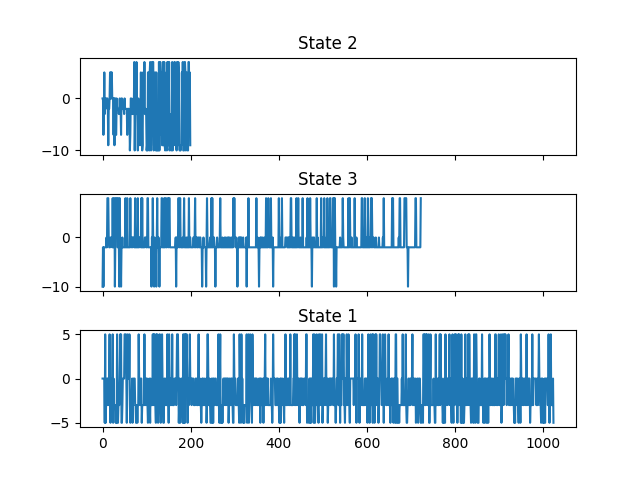
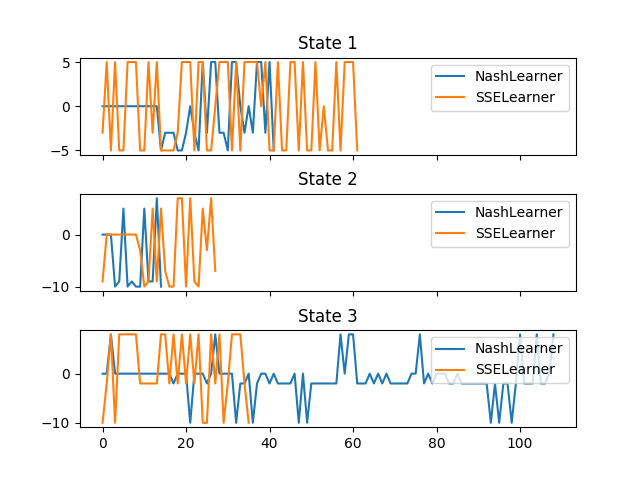
Adding QLearning with SSE (MIQP).

diff --git a/src/agents.py b/src/agents.py
@@ -1,11 +1,15 @@
 import nashpy as nash
+import importlib
 import pprint
+import abc
 
 pp = pprint.PrettyPrinter(indent=2)
 
 
 class QLearner:
     def __init__(self, game_to_play, discount_factor, alpha):
+        __metaclass__ = abc.ABCMeta
+
         self.GAME = game_to_play
         self.DISCOUNT_FACTOR = discount_factor
         self.ALPHA = alpha
@@ -56,10 +60,6 @@ class QLearner:
             r_A + self.DISCOUNT_FACTOR * self.V_A[s_next]
         )
 
-    def print_Q(self):
-        pp.pprint(self.Q_A)
-        pp.pprint(self.Q_D)
-
     # Initialize with a uniform random policy over all actions in the state
     def initial_policy(self):
         for s in self.S:
@@ -76,13 +76,23 @@ class QLearner:
         assert s in self.S
         return self.policy_D[s], self.policy_A[s]
 
-    def get_values(self):
+    @abc.abstractmethod
+    def update_value_and_policy(self):
         raise NotImplementedError
+
+    def print_Q(self):
+        pp.pprint(self.Q_D)
+        pp.pprint(self.Q_A)
+
+    def print_policy(self):
+        pp.pprint(self.policy_D)
+        pp.pprint(self.policy_A)
 
 
 class NashLearner(QLearner):
     def __init__(self, *args, **kwargs):
         super(NashLearner, self).__init__(*args, **kwargs)
+        self.name = 'NashLearner'
 
     def get_name(self):
         return self.name
@@ -129,3 +139,97 @@ class NashLearner(QLearner):
         game_value = g[D_s, A_s]
 
         return game_value[0], game_value[1], D_s, A_s
+
+
+class StackelbergLearner(QLearner):
+    def __init__(self, *args, **kwargs):
+        super(StackelbergLearner, self).__init__(*args, **kwargs)
+        self.name = 'SSELearner'
+        self.lib = importlib.import_module('gurobi')
+
+    def get_name(self):
+        return self.name
+
+    # Given the Q-values, update (1) the value of state s and (2) the policy of the agents
+    def update_value_and_policy(self, s):
+        num_d = len(self.A_D[s])
+        num_a = len(self.A_A[s])
+
+        m = self.lib.Model('MIQP')
+        m.setParam('OutputFlag', 0)
+        m.setParam('LogFile', '')
+        m.setParam('LogToConsole', 0)
+
+        # Add defender stategies to the model
+        x = []
+        for i in range(num_d):
+            n = 'x_{}'.format(self.A_D[s][i])
+            x.append(m.addVar(lb=0, ub=1, vtype=self.lib.GRB.CONTINUOUS, name=n))
+        m.update()
+
+        # Add defender stategy constraints
+        con = self.lib.LinExpr()
+        for i in range(num_d):
+            con.add(x[i])
+        m.addConstr(con == 1)
+
+        obj = self.lib.QuadExpr()
+        M = 100000000
+
+        q = []
+        for i in range(num_a):
+            n = 'q_{}'.format(self.A_A[s][i])
+            q.append(m.addVar(lb=0, ub=1, vtype=self.lib.GRB.INTEGER, name=n))
+
+        V_a = m.addVar(lb=-self.lib.GRB.INFINITY, ub=self.lib.GRB.INFINITY, vtype=self.lib.GRB.CONTINUOUS, name="V_a")
+        m.update()
+
+        # Get Defender/Leader's Q-value matrix
+        M_D = []
+        M_A = []
+        for d in range(num_d):
+            row_D = []
+            row_A = []
+            for a in range(num_a):
+                k = '{}_{}_{}'.format(s, self.A_D[s][d], self.A_A[s][a])
+                row_D.append(self.Q_D[k])
+                row_A.append(self.Q_A[k])
+            M_D.append(row_D)
+            M_A.append(row_A)
+
+        # Update objective function
+        for i in range(num_d):
+            for j in range(num_a):
+                obj.add(M_D[i][j] * x[i] * q[j])
+
+        # Add constraints to make attaker have a pure strategy
+        con = self.lib.LinExpr()
+        for j in range(num_a):
+            con.add(q[j])
+        m.addConstr(con == 1)
+
+        # Add constrains to make attacker select dominant pure strategy
+        for j in range(num_a):
+            val = self.lib.LinExpr()
+            val.add(V_a)
+            for i in range(num_d):
+                val.add(float(M_A[i][j]) * x[i], -1.0)
+            m.addConstr(val >= 0, q[j].getAttr('VarName') + "_lb")
+            m.addConstr(val <= (1 - q[j]) * M, q[j].getAttr('VarName') + "_ub")
+
+        # Set objective funcion as all attackers have now been considered
+        m.setObjective(obj, self.lib.GRB.MAXIMIZE)
+
+        # Solve MIQP
+        m.optimize()
+
+        self.V_D[s] = float(m.ObjVal)
+        for var in m.getVars():
+            if 'x_' in var.varName:
+                print(var.varName)
+                print(var.varName.replace('x_', 'pi_'))
+                self.policy_D[s][var.varName.replace('x_', 'pi_')] = float(var.x)
+            if 'q_' in var.varName:
+                self.policy_A[s][var.varName.replace('q_', 'pi_')] = float(var.x)
+            if 'V_a' in var.varName:
+                self.V_A[s] = float(var.x)

diff --git a/src/run.py b/src/run.py
@@ -20,10 +20,7 @@ def sample_act_from_policy(pi, epsilon=0.1):
     return np.random.choice(acts, p=probs)
 
 
-def run(episodes=50):
-    env = GeneralSum_Game()
-
-    rl_agent = NashLearner(env, discount_factor=0.5, alpha=0.1)
+def run(env, rl_agent, episodes=30):
     rl_agent.initial_policy()
 
     rewards_D = {}
@@ -55,19 +52,27 @@ def run(episodes=50):
 
             s_t = s_next
 
+    # [Debug] Ensure that the Q-values are approx. equal to true reward values.
     rl_agent.print_Q()
+    rl_agent.print_policy()
 
     states = rewards_D.keys()
-    fig, axl = plt.subplots(len(states) - 1, sharex=True, gridspec_kw={"hspace": 0.4})
-    idx = 0
     for s in states:
         if env.is_end(s):
             continue
-        axl[idx].set_title("State {}".format(s))
-        axl[idx].plot([i for i in range(len(rewards_D[s]))], rewards_D[s])
-        idx += 1
-    plt.savefig("./defender_rewards.png")
+        axl[s - 1].set_title("State {}".format(s))
+        axl[s - 1].plot([i for i in range(len(rewards_D[s]))], rewards_D[s], label=rl_agent.get_name())
+        axl[s - 1].legend(loc='upper right')
 
 
 if __name__ == "__main__":
-    run()
+    env = GeneralSum_Game()
+    fig, axl = plt.subplots(len(env.start_S), sharex=True, gridspec_kw={"hspace": 0.4})
+
+    rl_agent = NashLearner(env, discount_factor=0.5, alpha=0.1)
+    run(env, rl_agent)
+
+    rl_agent = StackelbergLearner(env, discount_factor=0.5, alpha=0.1)
+    run(env, rl_agent)
+
+    plt.savefig("./defender_rewards.png")
